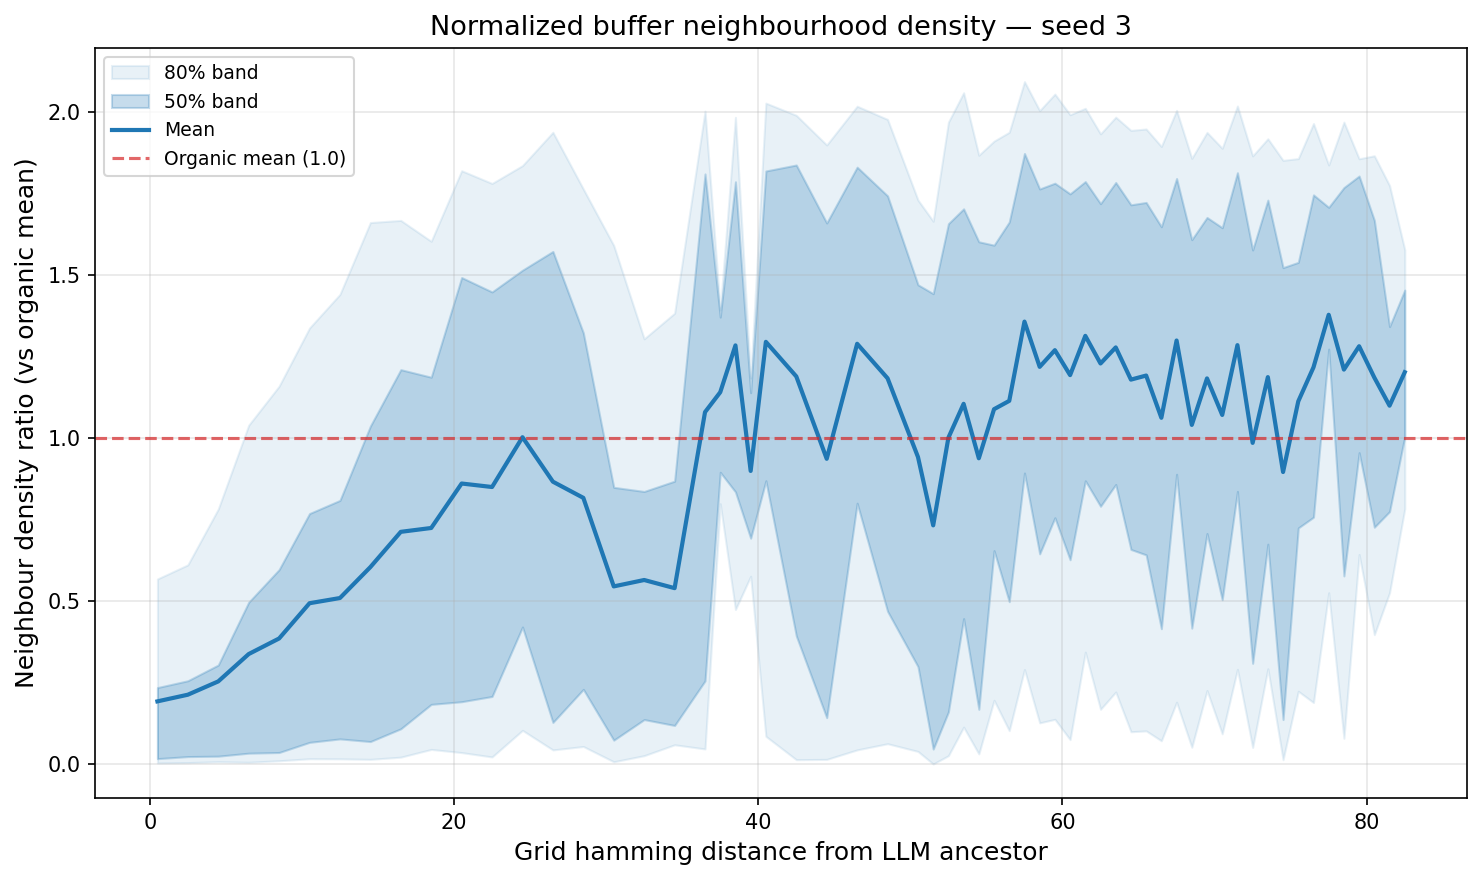
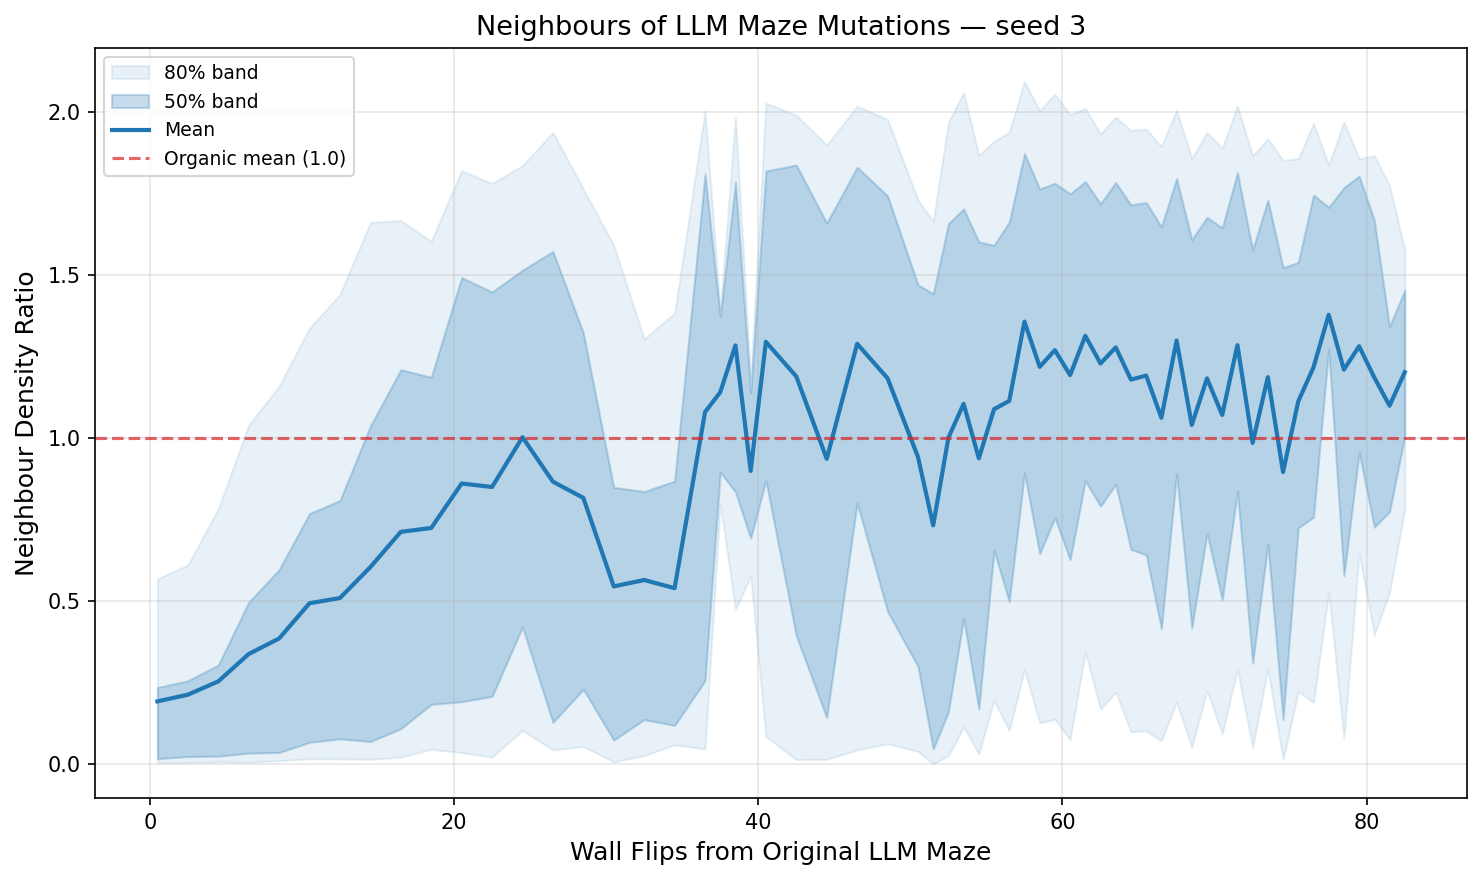
feat: update mutation migration plots — axis labels, normalized density ratio, buffer_timestep arg
- plot_embedding_distances: rename axes for clarity, set default sigma=0
- plot_llm_on_buffer: add --buffer_timestep arg, update static flip values
- Regenerate plots with updated labels

Changed region(s): [[0.2794, 0.0, 0.7449, 0.0614], [0.0, 0.1841, 0.031, 0.767], [0.3414, 0.9511, 0.7139, 0.9818]]

diff --git a/analysis/final_results_plotting/mutation_migration/plot_llm_on_buffer.py b/analysis/final_results_plotting/mutation_migration/plot_llm_on_buffer.py
@@ -56,6 +56,8 @@ def main():
     parser.add_argument("--seed", type=int, default=3)
     parser.add_argument("--buffer_cache_dir", type=str,
                         default="analysis/final_results_plotting/cache_solved")
+    parser.add_argument("--buffer_timestep", type=int, default=2250,
+                        help="Buffer timestep to use (default: 2250)")
     parser.add_argument("--mutations_cache", type=str,
                         default="analysis/final_results_plotting/mutation_migration/test_cache/mutations_embeddings.npz")
     parser.add_argument("--llm_orig_cache", type=str,
@@ -73,15 +75,16 @@ def main():
     if args.output is None:
         args.output = f"analysis/final_results_plotting/mutation_migration/llm_on_buffer_seed{args.seed}.png"
 
-    # Load buffer (t=2250, pre-injection)
-    buf_path = os.path.join(args.buffer_cache_dir, f"emb_solved_s{args.seed}_t2250.npz")
+    # Load buffer
+    bt = args.buffer_timestep
+    buf_path = os.path.join(args.buffer_cache_dir, f"emb_solved_s{args.seed}_t{bt}.npz")
     buf = np.load(buf_path, allow_pickle=True)
     buf_emb = buf["embeddings_solved"]
     n_buf = len(buf_emb)
-    print(f"Buffer: {n_buf} levels")
+    print(f"Buffer (t={bt}): {n_buf} levels")
 
     # Load eval levels
-    eval_path = os.path.join(args.buffer_cache_dir, f"eval_solved_s{args.seed}_t2250.npz")
+    eval_path = os.path.join(args.buffer_cache_dir, f"eval_solved_s{args.seed}_t{bt}.npz")
     eval_d = np.load(eval_path, allow_pickle=True)
     eval_emb = eval_d["embeddings_solved"]
     eval_solved = eval_d["solved"]

diff --git a/analysis/final_results_plotting/mutation_migration/plot_embedding_distances.py b/analysis/final_results_plotting/mutation_migration/plot_embedding_distances.py
@@ -188,9 +188,9 @@ def _run_normalized(args, percentiles):
     plot_on_ax(ax, bin_flips, bin_mean, bin_bands, percentiles,
                baseline=1.0, baseline_label='Organic mean (1.0)')
 
-    ax.set_xlabel('Grid hamming distance from LLM ancestor', fontsize=12)
-    ax.set_ylabel('Neighbour density ratio (vs organic mean)', fontsize=12)
-    ax.set_title(f'Normalized buffer neighbourhood density — seed {args.seed}', fontsize=13)
+    ax.set_xlabel('Wall Flips from Original LLM Maze', fontsize=12)
+    ax.set_ylabel('Neighbour Density Ratio', fontsize=12)
+    ax.set_title(f'Neighbours of LLM Maze Mutations — seed {args.seed}', fontsize=13)
     ax.legend(fontsize=9, framealpha=0.8)
     plt.tight_layout()
 
